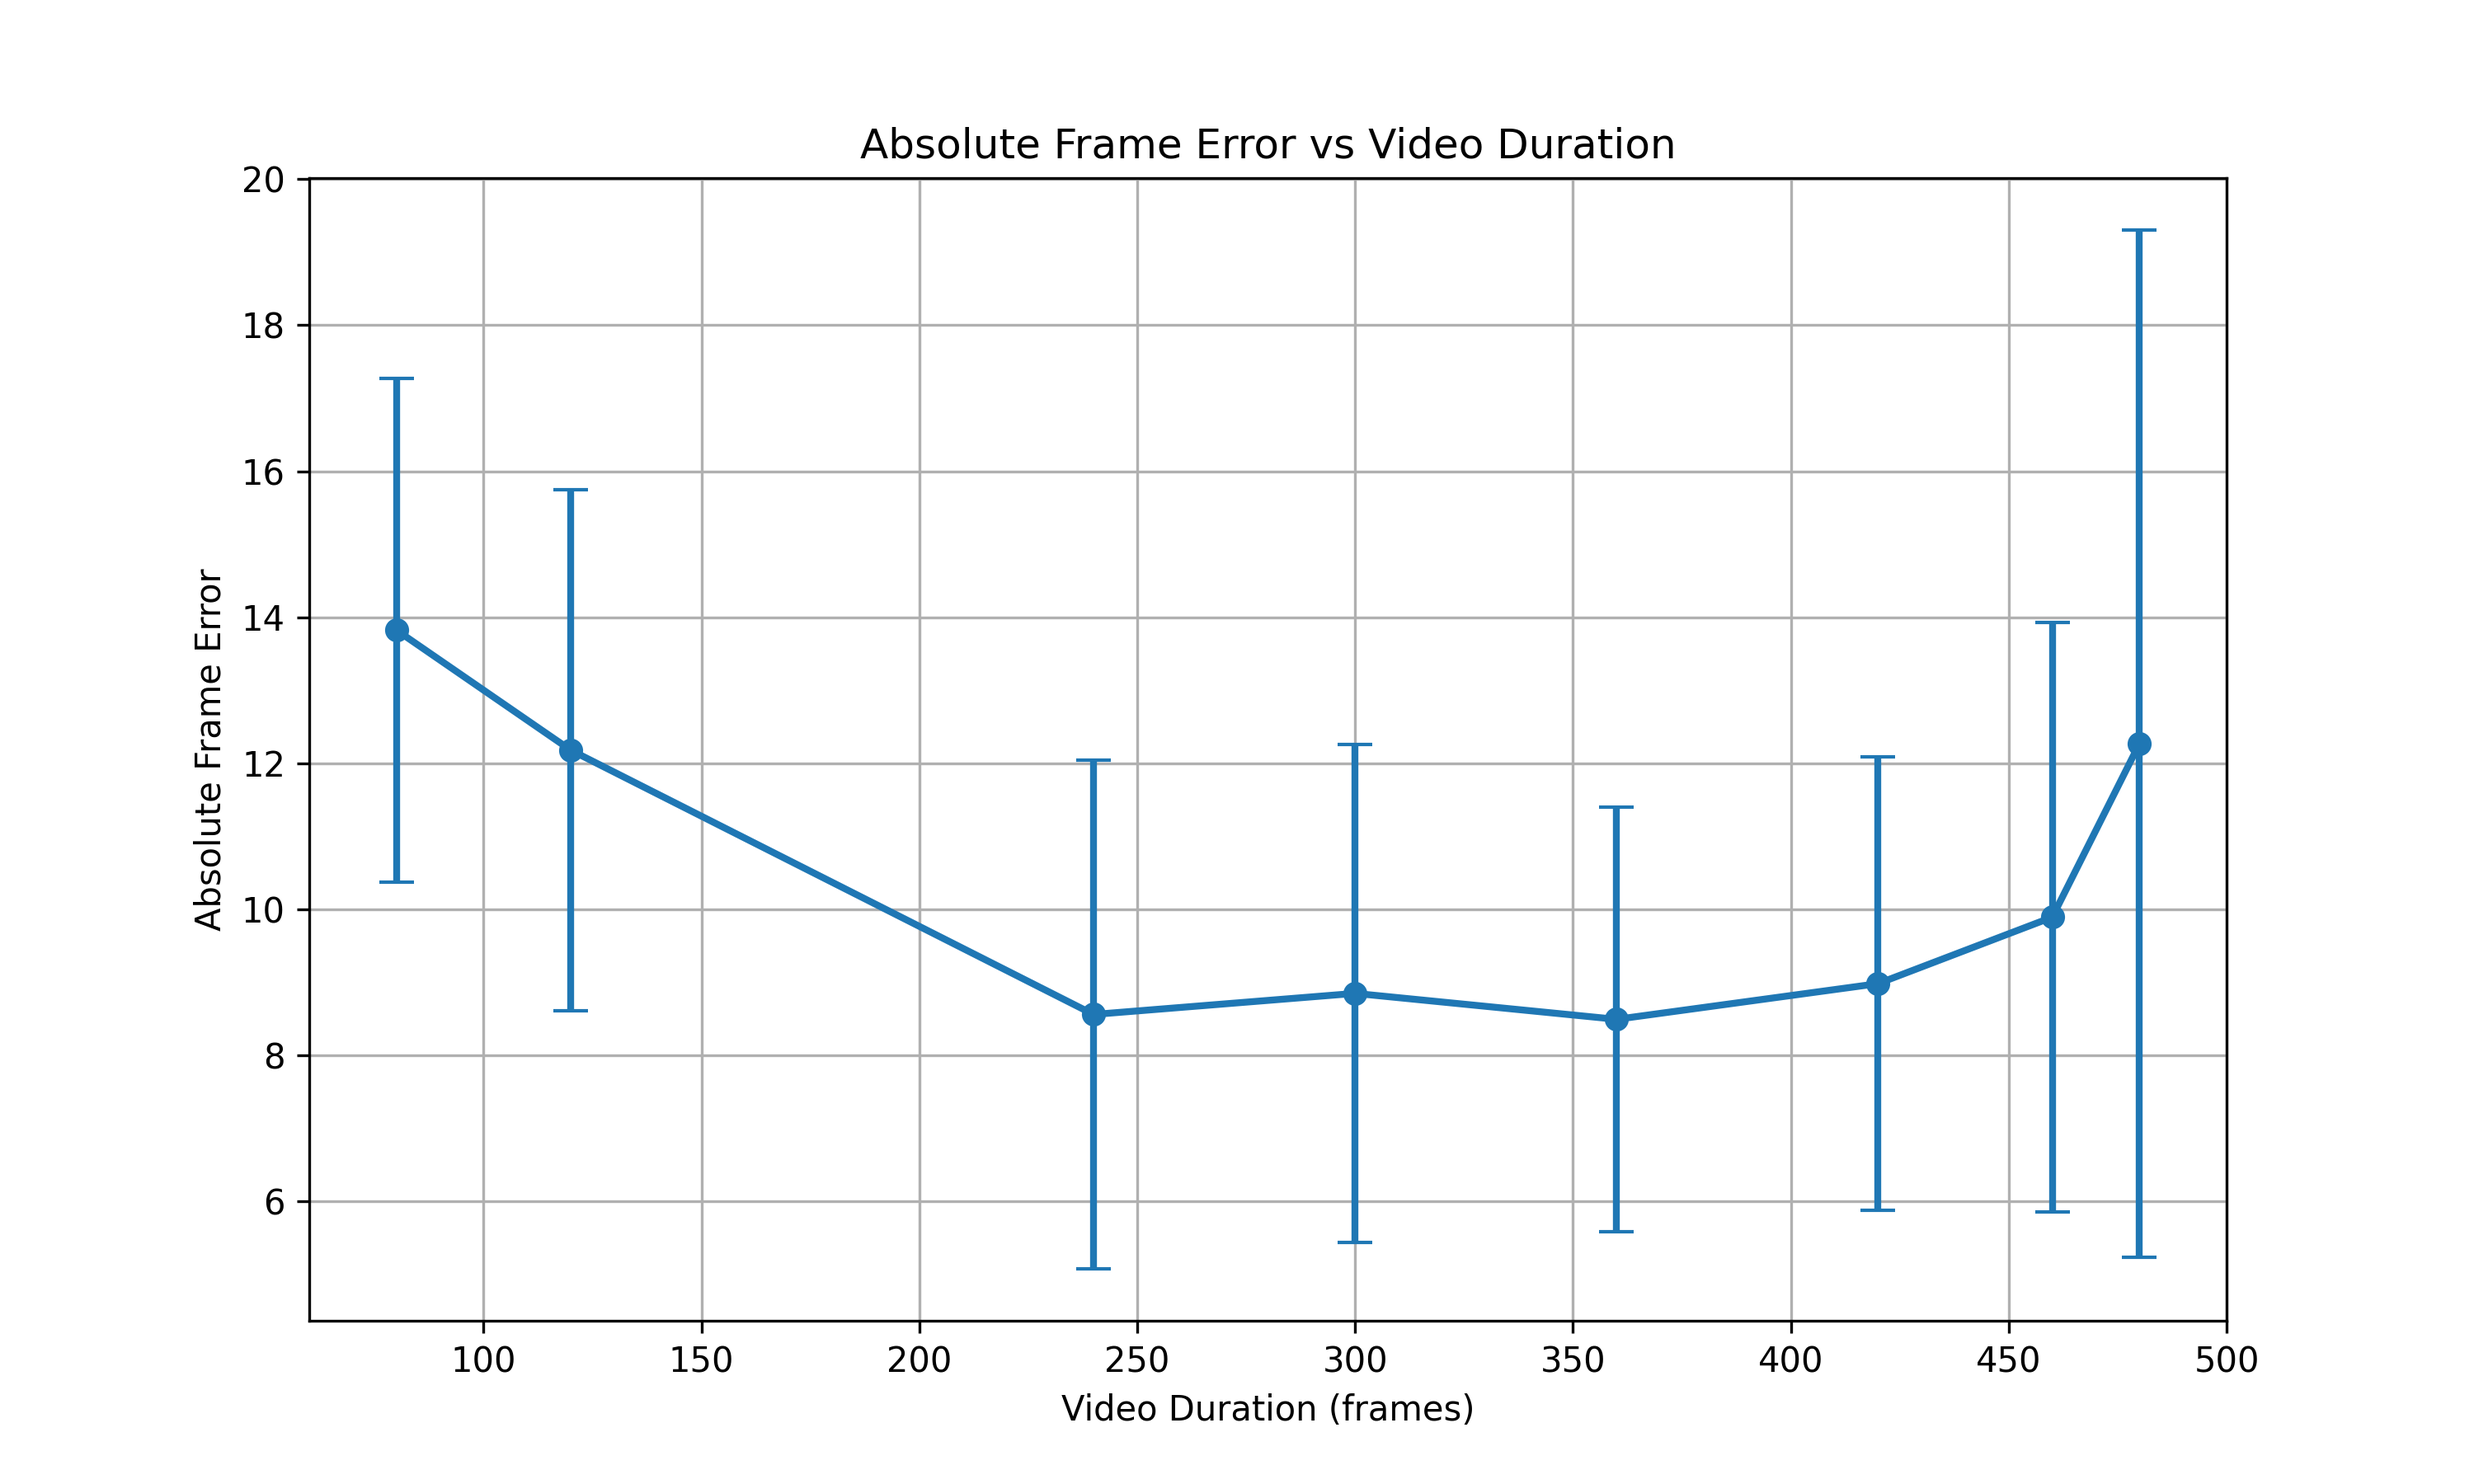
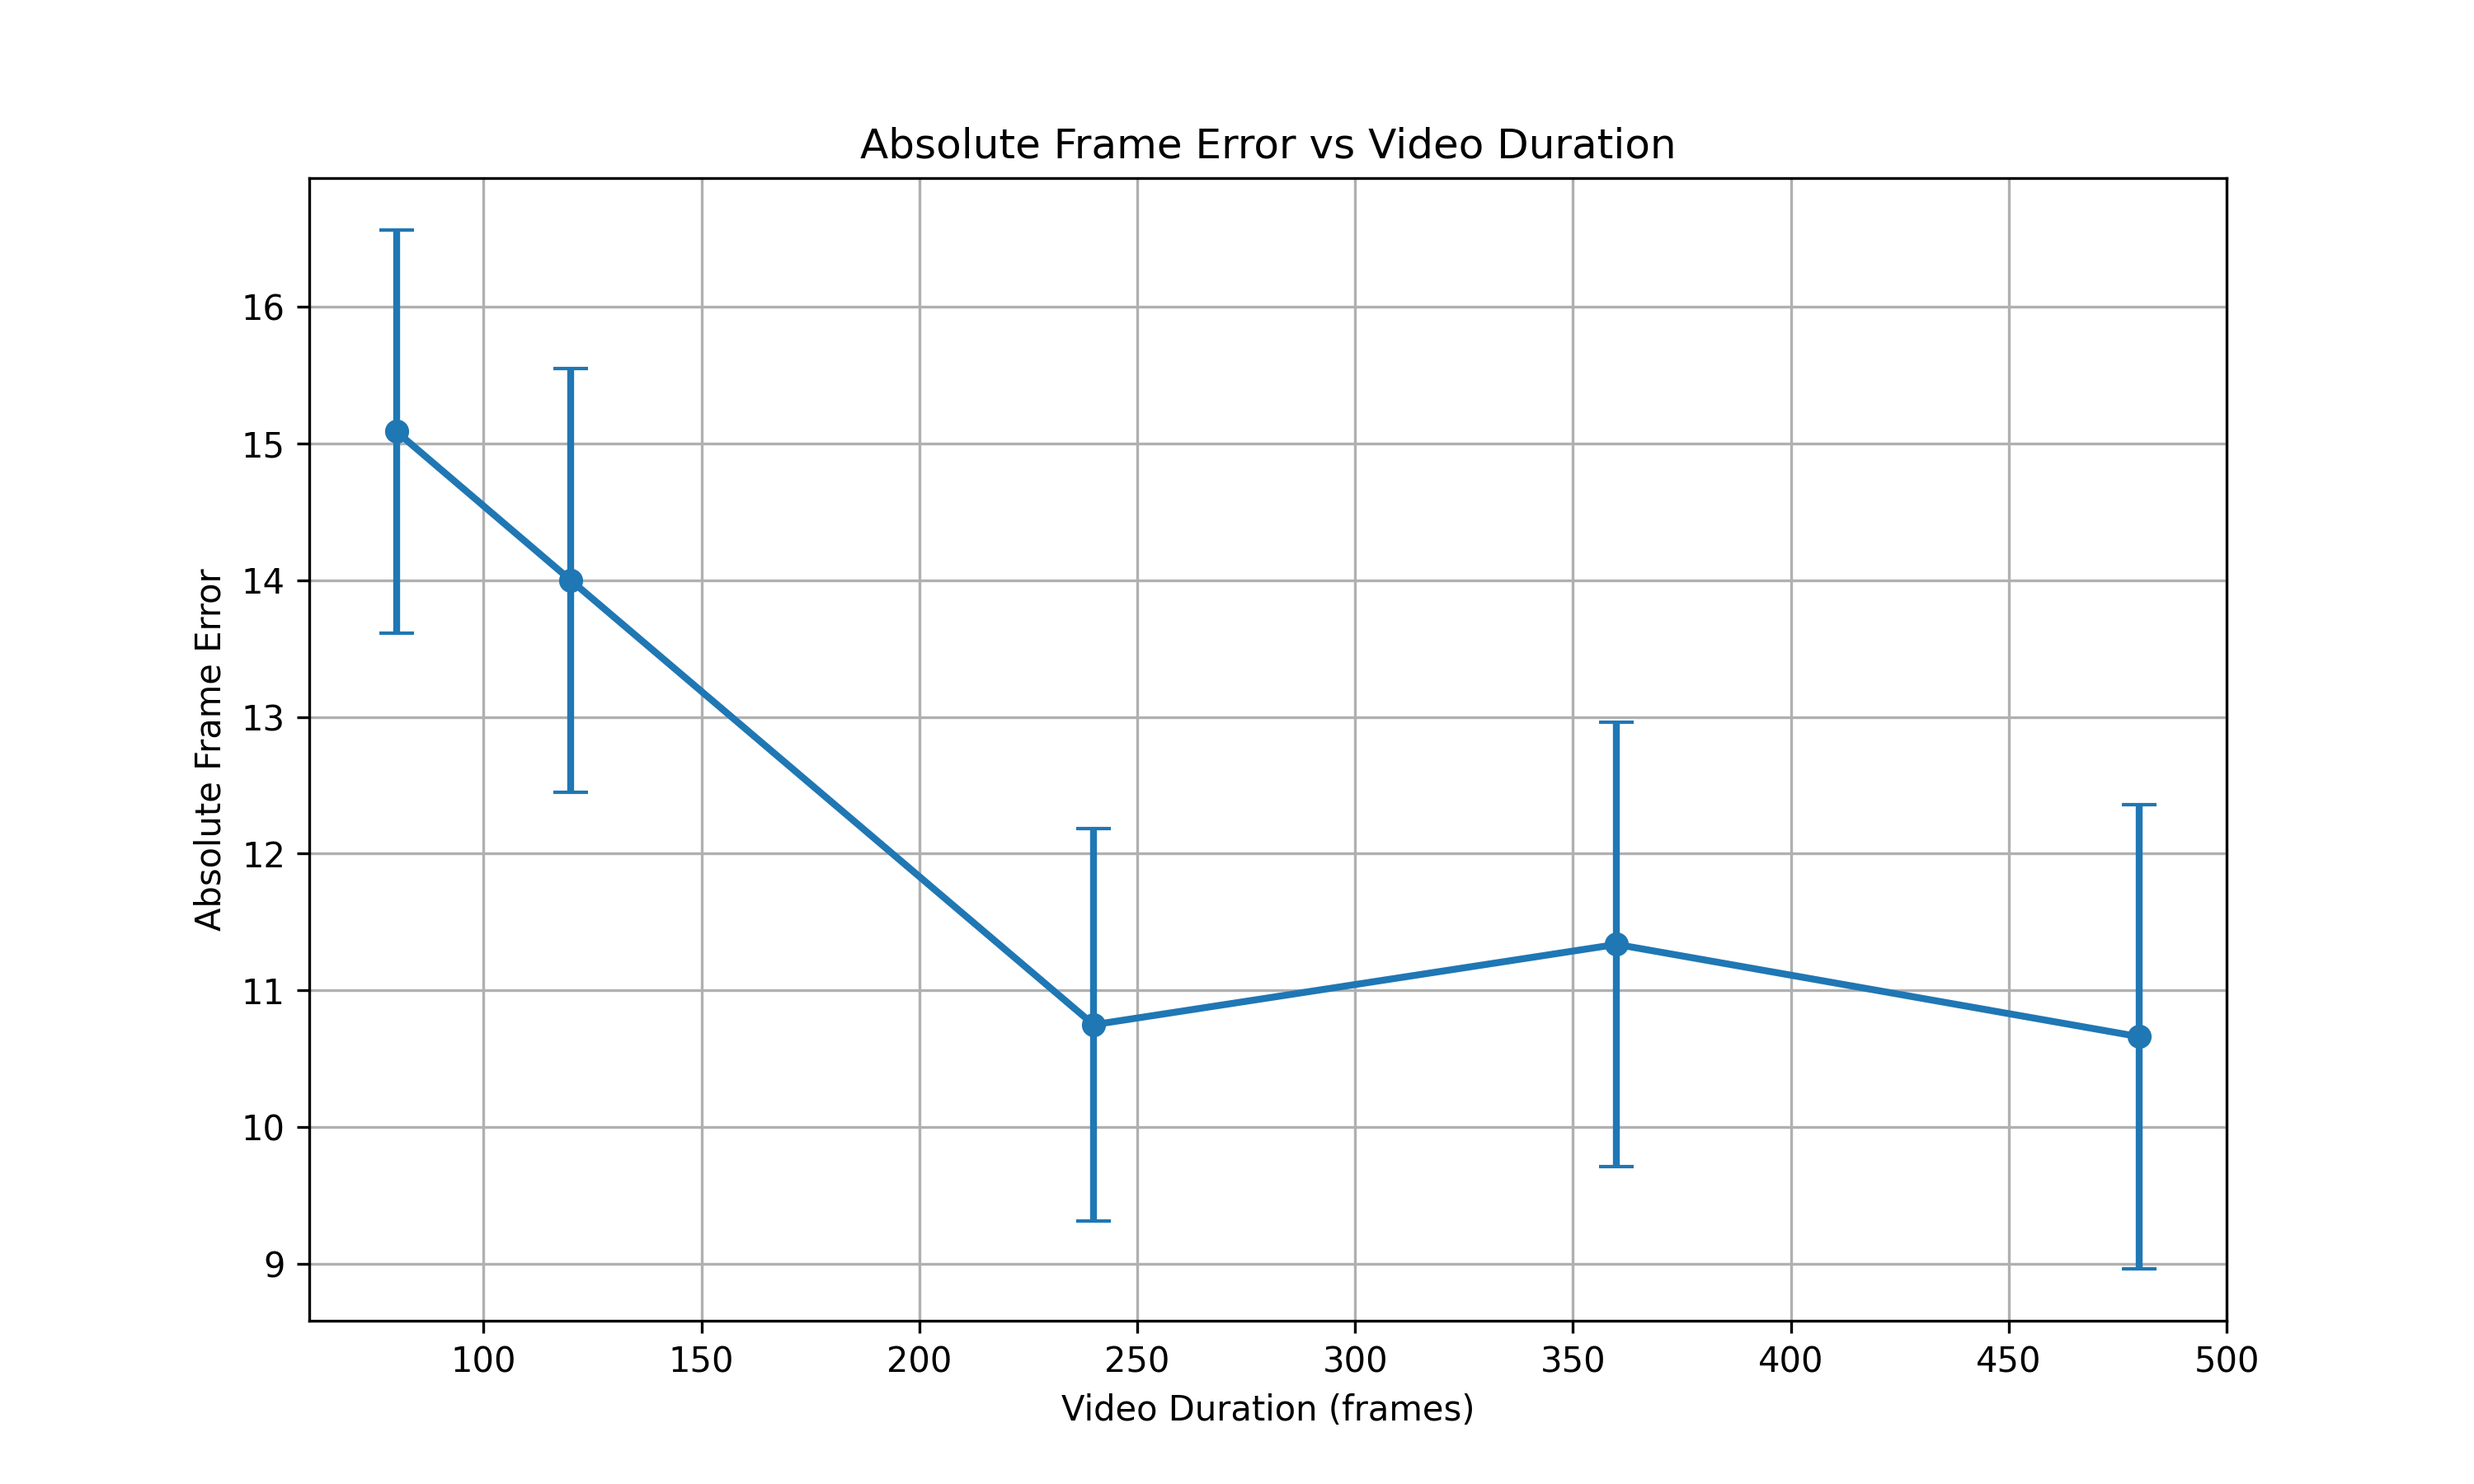
CMU duration experiment plot

diff --git a/plots/duration_vs_abs_frame_error.py b/plots/duration_vs_abs_frame_error.py
@@ -1,24 +1,24 @@
 import matplotlib.pyplot as plt
 
 # Data
-video_durations = [80, 120, 240, 300, 360, 420, 460, 480]
+video_durations = [80, 120, 240, 360, 480]
 methods = ["median"]
 data = {
     "dtw": {
-        "abs_frame_error_mean": [13.755555555555556, 11.8, 8.377777777777778, 8.377777777777778, 10.066666666666666, 9.488888888888887, 9.844444444444443, 9.133333333333333],
-        "moe": [3.508289609597332, 3.6021935233389626, 3.5863946247448664, 3.365382324469181, 3.67048083294534, 3.719457161446087, 4.031708149112748, 3.9536631329975345],
+        "abs_frame_error_mean": [15.0989010989011, 13.824175824175825, 10.478021978021978, 10.236263736263735, 9.95054945054945],
+        "moe": [1.5092792898383214, 1.6163823808996085, 1.5394737104300698, 1.5756742048590475, 1.877010212661156],
     },
     "log_reg": {
-        "abs_frame_error_mean": [15.822222222222225, 13.377777777777778, 12.28888888888889, 13.28888888888889, 14.022222222222222, 17.822222222222223, 19.31111111111111, 20.444444444444443],
-        "moe": [4.665177627934633, 4.128714749743691, 4.367317419261864, 4.712376396093051, 4.737789583614445, 4.915158671412157, 4.938174939413256, 4.863991085031661],
+        "abs_frame_error_mean": [19.956043956043956, 15.15934065934066, 19.71978021978022, 21.51098901098901, 22.532967032967033],
+        "moe": [2.3121601423763267, 2.0864897243232035, 2.40483215538842, 2.444648542710554, 2.473989336424549],
     },
     "mean": {
-        "abs_frame_error_mean": [14.22222222222222, 13.333333333333334, 9.244444444444444, 9.266666666666667, 8.666666666666666, 8.911111111111111, 10.11111111111111, 10.2],
-        "moe": [3.1234072509344792, 3.509915476164557, 3.3419773189131248, 2.9500309192711742, 2.614517452241056, 2.927111731730691, 3.872999027778016, 4.174280817879613],
+        "abs_frame_error_mean": [15.26923076923077, 14.384615384615383, 11.763736263736265, 12.763736263736265, 12.846153846153848],
+        "moe": [1.4470816017485228, 1.5293494430278138, 1.4098498503596002, 1.5888967690881943, 1.6657776542236342],
     },
     "median": {
-        "abs_frame_error_mean": [13.822222222222225, 12.177777777777775, 8.555555555555555, 8.844444444444445, 8.488888888888889, 8.977777777777778, 9.88888888888889, 12.266666666666667],
-        "moe": [3.451302106431795, 3.5684529453289153, 3.4855757247347854, 3.4125336563870383, 2.912548364813248, 3.1076986250911993, 4.034824620844655, 7.037922962413816],
+        "abs_frame_error_mean": [15.087912087912088, 14.0, 10.747252747252746, 11.335164835164836, 10.65934065934066],
+        "moe": [1.4748691977651955, 1.5512093016252044, 1.436015731452616, 1.6280542815453334, 1.698381779352947],
     },
 }
 
